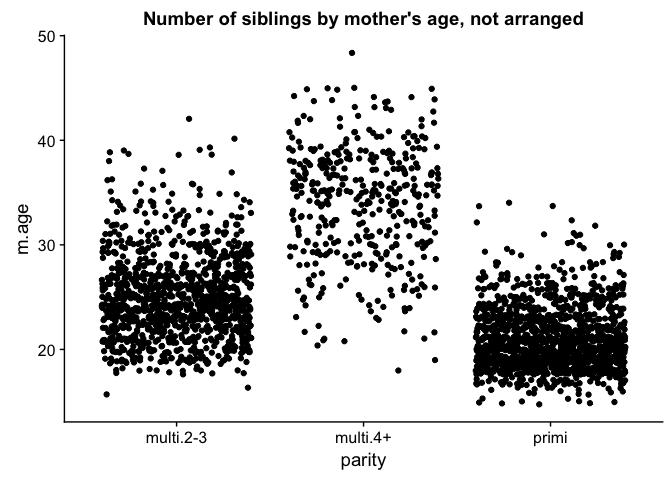
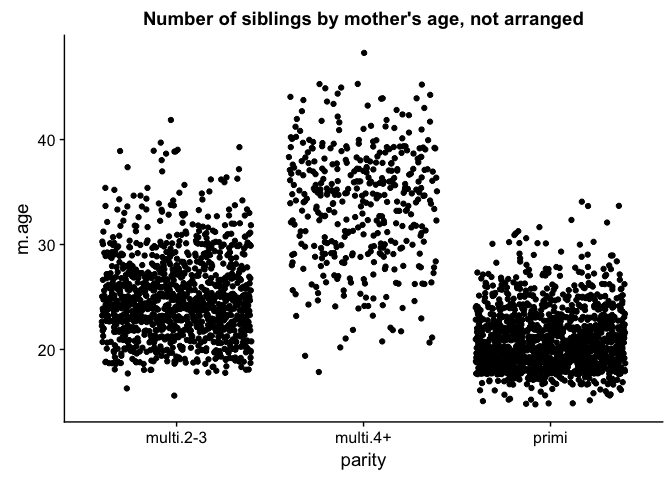
embedded final attempt

diff --git a/hw05/hw05.md b/hw05/hw05.md
@@ -1327,11 +1327,11 @@ ggsave("/Users/kaitlynharper/Google Drive/UBC/Fall 2017/STAT 545/STAT545-hw-harp
 
     ## Saving 7 x 5 in image
 
-![plot1](/Users/kaitlynharper/Google%20Drive/UBC/Fall%202017/STAT%20545/STAT545-hw-harper-kaitlyn/hw05/hw05_files/figure-markdown_github-ascii_identifiers/paritybar.pdf)
+I experimented with changing the size of the plot, and it seems like the smaller your dimensions, the bigger everything shows up, which is good to know. Honestly I couldn't figure out how to embed the image in this github document; it works when I knit it but when I upload it onto github it disappears. Any feedback on that would be great. Instead, here are the links to the images:
 
-![plot2](/Users/kaitlynharper/Google%20Drive/UBC/Fall%202017/STAT%20545/STAT545-hw-harper-kaitlyn/hw05/hw05_files/figure-markdown_github-ascii_identifiers/paritybar2.pdf)
+[plot1 - width = 5](https://github.com/oktokat/STAT545-hw-harper-kaitlyn/blob/master/hw05/hw05_files/figure-markdown_github-ascii_identifiers/paritybar.pdf)
 
-I experimented with changing the size of the plot, and it seems like the smaller your dimensions, the bigger everything shows up, which is good to know. I'm not *exactly* sure this^ is how it was supposed to end up when we embedded them into our md, but it's kind of cool!
+[plot2 - width = 7](https://github.com/oktokat/STAT545-hw-harper-kaitlyn/blob/master/hw05/hw05_files/figure-markdown_github-ascii_identifiers/paritybar2.pdf)
 
 <a href="#top">Back to top</a>
 
